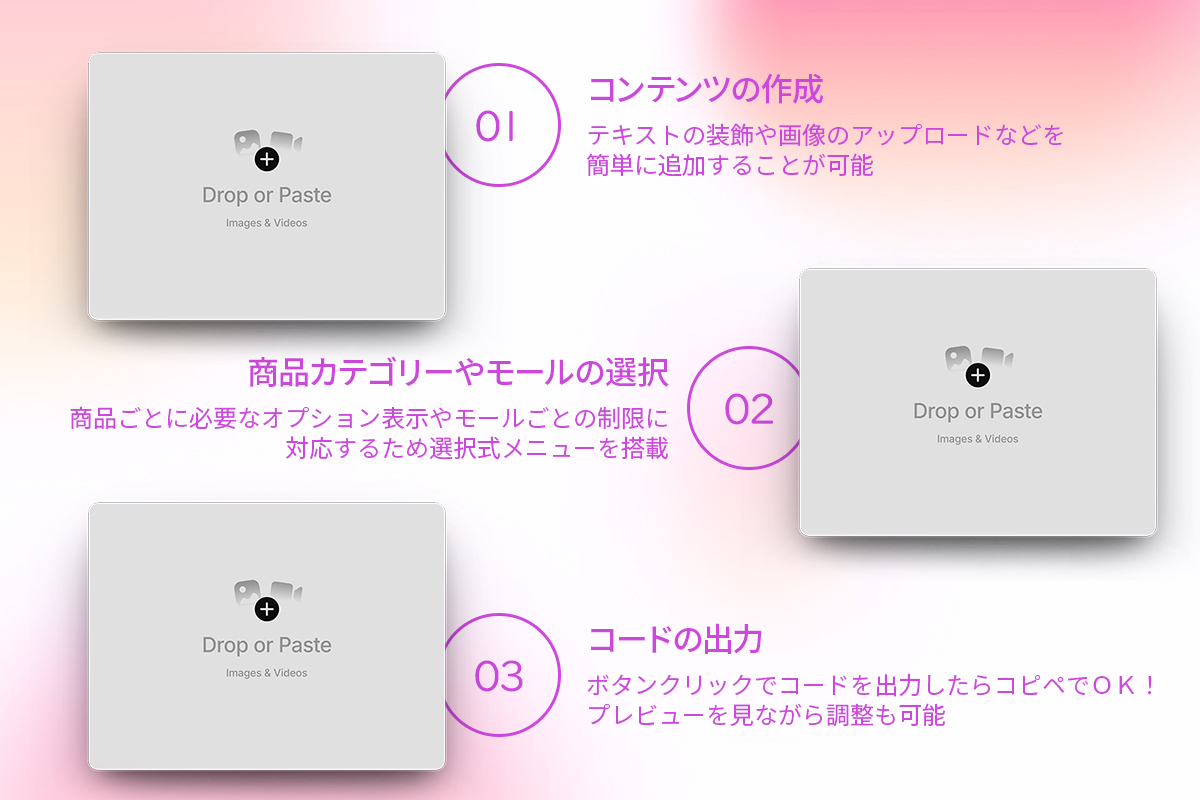
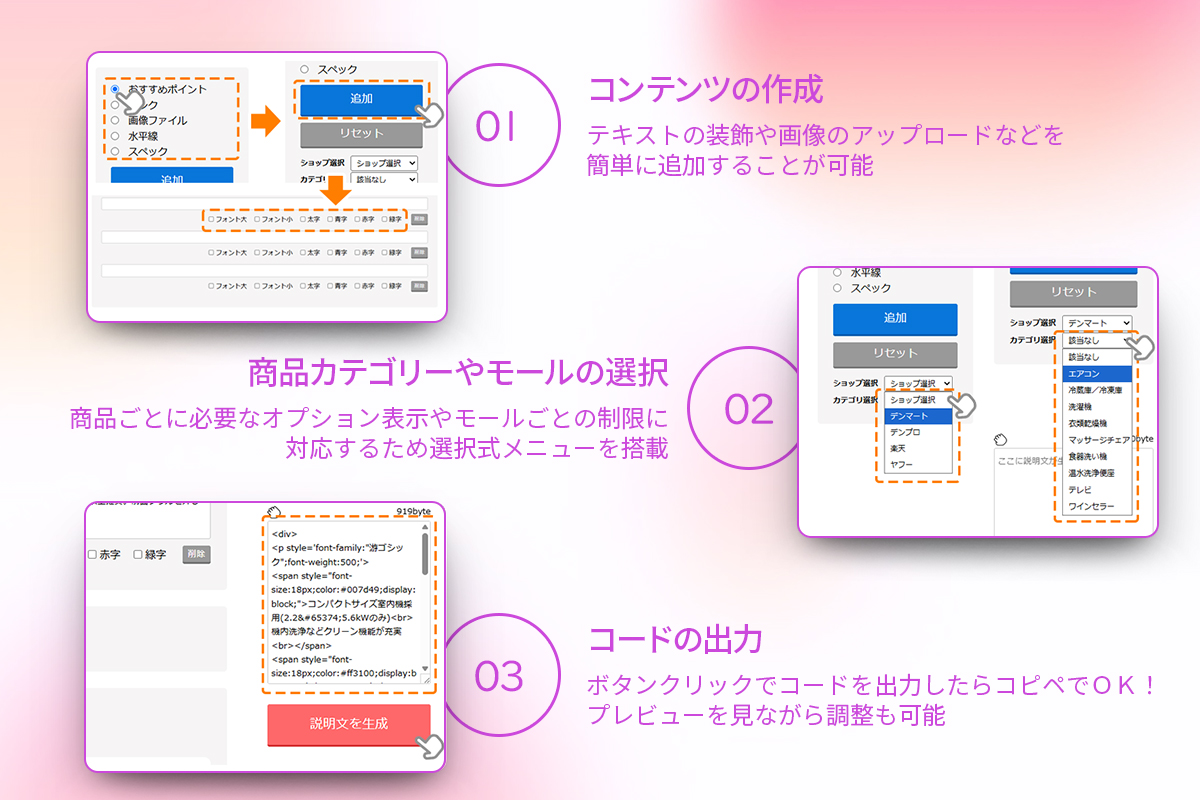
画像の追加

Changed region(s): [[0.6475, 0.3125, 0.9867, 0.6875], [0.0617, 0.0625, 0.37, 0.4062], [0.0617, 0.625, 0.37, 0.9688]]

diff --git a/index.html b/index.html
@@ -367,7 +367,7 @@ function initScrollAnimations() {
 							<ul class="img_list">
 								<li class="x1">
 									<div class="js-reveal-img">
-										<img src="./images/noimage.jpg" width="100%" alt="画像準備中" />
+										<img src="./images/pf_img04.jpg" width="100%" alt="画像準備中" />
 									</div>
 									<p>撮影指示書：製品の質感やインテリアへの馴染みやすさを伝えるため、アングルや光の切り方を詳細にディレクション。</p>
 								</li>
